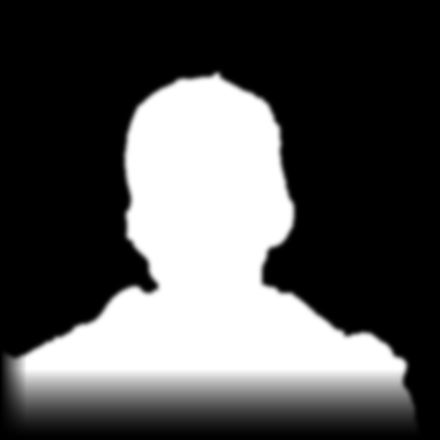
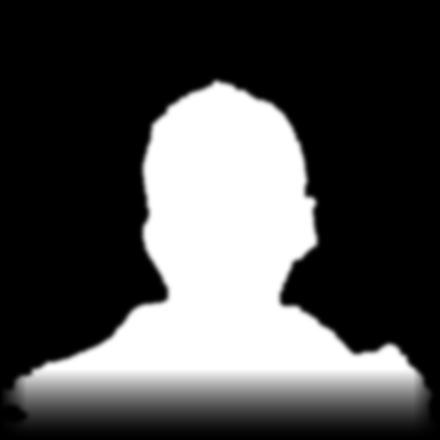
Use the new portrait photo; present SFU as completed

Changed region(s): [[0.0, 0.1477, 0.5614, 0.8864], [0.5614, 0.2068, 1.0, 0.975], [0.0, 0.9159, 0.0591, 0.975]]

diff --git a/mohamed-hefny-portfolio/src/content/profile.ts b/mohamed-hefny-portfolio/src/content/profile.ts
@@ -1,19 +1,19 @@
 export const profile = {
   name: "Mohamed Hefny",
-  headline: "Senior software engineer at Microsoft. Graduate student at SFU, researching visual SLAM.",
+  headline: "Senior software engineer at Microsoft, with graduate research in visual SLAM at SFU.",
   intro:
     "This page is a map of how I got here, reconstructed live in your browser. Scroll to move the camera.",
   description:
-    "Mohamed Hefny is a senior software engineer at Microsoft and a graduate student at Simon Fraser University researching visual SLAM and 3D Gaussian splatting, previously at AWS (CloudFormation) and Morgan Stanley.",
+    "Mohamed Hefny is a senior software engineer at Microsoft with graduate research at Simon Fraser University in visual SLAM and 3D Gaussian splatting, previously at AWS (CloudFormation) and Morgan Stanley.",
   about: [
-    "I'm a senior software engineer at Microsoft and a graduate student at Simon Fraser University, finishing in fall 2026. At SFU I research visual SLAM.",
+    "I'm a senior software engineer at Microsoft. I did my graduate research at Simon Fraser University, on visual SLAM, and graduated in 2026.",
     "Before Microsoft I built backend services and APIs at Intact and Morgan Stanley, then worked on AWS CloudFormation, Amazon's infrastructure-as-code service. I studied software engineering at Concordia University in Montreal.",
   ],
   /** Rendered as an OpenCV-style calibration file. */
   calibration: [
     ["origin", "London, Ontario"],
     ["trained", "B.Eng. Software Engineering, Concordia"],
-    ["studying", "Graduate student, SFU (fall 2025 – fall 2026)"],
+    ["graduated", "Simon Fraser University, 2026"],
     ["current", "Senior Software Engineer, Microsoft (since Feb 2025)"],
     ["previous", "AWS CloudFormation · Morgan Stanley · Intact"],
     ["research", "visual SLAM"],

diff --git a/mohamed-hefny-portfolio/src/app/page.tsx b/mohamed-hefny-portfolio/src/app/page.tsx
@@ -10,8 +10,10 @@ const person = {
   url: profile.site,
   jobTitle: "Senior Software Engineer",
   worksFor: { "@type": "Organization", name: "Microsoft" },
-  alumniOf: { "@type": "CollegeOrUniversity", name: "Concordia University" },
-  affiliation: { "@type": "CollegeOrUniversity", name: "Simon Fraser University" },
+  alumniOf: [
+    { "@type": "CollegeOrUniversity", name: "Concordia University" },
+    { "@type": "CollegeOrUniversity", name: "Simon Fraser University" },
+  ],
   birthPlace: { "@type": "Place", name: "London, Ontario" },
   knowsAbout: ["Visual SLAM", "3D Gaussian splatting", "Cloud infrastructure", "Java", "Kotlin", "Python"],
   sameAs: profile.links.filter((l) => l.enabled !== false).map((l) => l.href),

diff --git a/mohamed-hefny-portfolio/src/content/timeline.ts b/mohamed-hefny-portfolio/src/content/timeline.ts
@@ -52,11 +52,12 @@ export const keyframes: Keyframe[] = [
   {
     id: "sfu",
     kind: "research",
-    role: "Graduate student",
+    role: "Graduate research",
     org: "Simon Fraser University",
     url: "https://www.sfu.ca",
     start: "2025-09",
-    expected: "Fall 2026",
+    end: "2026-12",
+    approx: ["end"],
     summary: "Research in visual SLAM and 3D Gaussian splatting, supervised by Dr. Steven Ko, Professor of Computing Science.",
     skills: ["Python", "C++", "Visual SLAM", "Gaussian splatting"],
     landmark: "SFU",
